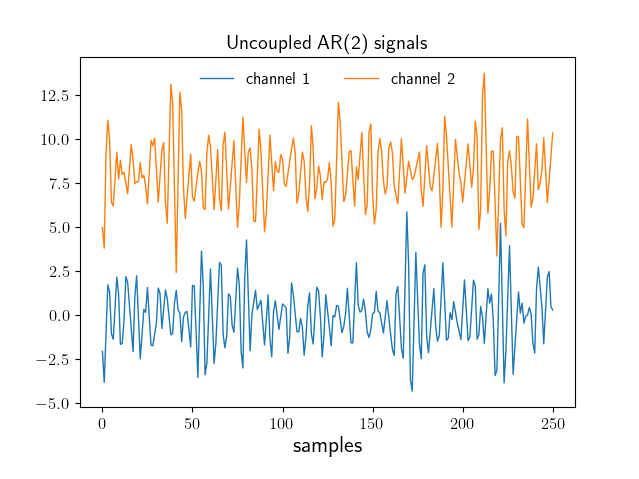
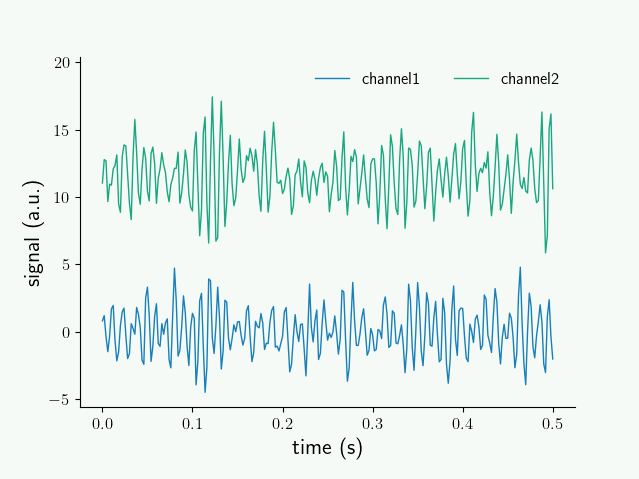
WIP: Connectivity Quickstart
Changes to be committed:
	new file:   doc/source/quickstart/ar2_coh.png
	deleted:    doc/source/quickstart/ar2_coh1.png
	modified:   doc/source/quickstart/ar2_nw.py
	modified:   doc/source/quickstart/ar2_signals.png
	modified:   doc/source/quickstart/ar2_specs.png
	modified:   doc/source/quickstart/quickstart.rst
	new file:   doc/source/tutorials/connectivity.rst

diff --git a/doc/source/quickstart/ar2_nw.py b/doc/source/quickstart/ar2_nw.py
@@ -5,13 +5,15 @@ from syncopy.tests import synth_data
 nTrials = 50
 nSamples = 1500
 trls = []
-# empty adjacency matrix - no coupling
+# 3x3 Adjacency matrix to define coupling
 AdjMat = np.zeros((2, 2))
+# coupling 0 -> 1
+AdjMat[0, 1] = 0.2
 
 for _ in range(nTrials):
 
     trl = synth_data.AR2_network(AdjMat, nSamples=nSamples)
     trls.append(trl)
 
-data_uc = spy.AnalogData(trls, samplerate=500)
-spec_uc = spy.freqanalysis(data_uc, tapsmofrq=3, keeptrials=False)
+data = spy.AnalogData(trls, samplerate=500)
+spec = spy.freqanalysis(data, tapsmofrq=3, keeptrials=False)

diff --git a/doc/source/quickstart/quickstart.rst b/doc/source/quickstart/quickstart.rst
@@ -146,73 +146,48 @@ Having time-frequency results for individual channels is useful, however we hard
 Setup
 -----
 
-To have a synthetic albeit meaningful dataset to illustrate the different methodologies we start by simulating two (for now) uncoupled autoregressive processes of order 2:
+To have a synthetic albeit meaningful dataset to illustrate the different methodologies we start by simulating two coupled autoregressive processes of order 2:
 
 .. literalinclude:: /quickstart/ar2_nw.py
 
-We also right away calculated the respective power spectra ``spec_uc``.
-We can quickly have a look at the generated signals, to do this we will use Syncopy's :func:`~syncopy.show` function. This allows us to make manual selections on Syncopy datasets, here we will use it to select 0.5 seconds of one trial for each channel separately::
+We also right away calculated the respective power spectra ``spec``.
+We can quickly have a look at a snippet of the generated signals::
+  
+  data.singlepanelplot(trials=0, toilim=[0, 0.5])
 
-  chan1 = data_uc.show(channel=0, trials=0, toilim=[0,0.5])
-  chan2 = data_uc.show(channel=1, trials=0, toilim=[0,0.5])
-
-Note that ``.show()`` returns NumPy arrays! With these we can now manually plot the signals using `matplotlib <https://matplotlib.org>`_::
-
-  import matplotlib.pyplot as ppl
-  fig, ax = ppl.subplots()
-  ax.plot(chan1, label='channel 1')
-  ax.plot(chan2 + 8, label='channel 2')
-  ax.set_xlabel('samples')
-  ax.set_title('Uncoupled AR(2) signals')
-  ax.legend(ncol=2)
-
-We shifted the 2nd channel up by 8 units on the y-axis for better visibility. Both channels show visible oscillations:
 
 .. image:: ar2_signals.png
    :height: 340px
 
+Both channels show visible oscillations as is confirmed by looking at the power spectra::
 
-as is confirmed by looking at the power spectra::
-
-  spec_uc.singlepanelplot()
+  spec.singlepanelplot()
 
 .. image:: ar2_specs.png
    :height: 300px
 
 As expected for the stochastic AR(2) model, we have a fairly broad spectral peak at around 100Hz.
 
-.. note::
+..
+   comment
    Careful when using :func:`~syncopy.show` on large datasets, as the output is loaded directly into memory. It is advisable to make sufficiently small selections (e.g. 1 channel, 1 trial) to avoid out-of-memory problems on your machine!
 
 Coherence
 ---------
-One way to check for relationships between different oscillating channels is to calculate the pairwise `coherence <https://en.wikipedia.org/wiki/Coherence_(signal_processing)>`_ measure. It can be roughly understood as a frequency dependent correlation. Let's do this for our uncoupled AR(2) signals::
+One way to check for relationships between different oscillating channels is to calculate the pairwise `coherence <https://en.wikipedia.org/wiki/Coherence_(signal_processing)>`_ measure. It can be roughly understood as a frequency dependent correlation. Let's do this for our coupled AR(2) signals::
   
-  coherence = spy.connectivityanalysis(data_uc, method='coh', tapsmofrq=3)
+  coherence = spy.connectivityanalysis(data, method='coh', tapsmofrq=3)
 
 The result is of type :class:`spy.CrossSpectralData`, the standard datatype for all connectivity measures. It contains the results for all ``nChannels x nChannels`` possible combinations. Let's pick the two available channel combinations and plot the results::
 
-  coh12 = coherence.show(channel_i='channel1', channel_j='channel2')
-  coh21 = coherence.show(channel_i='channel2', channel_j='channel1')
-
-  # plotting
-  fig, ax = ppl.subplots()
-  ax.plot(coherence.freq, coh12, label='1-2')
-  ax.plot(coherence.freq, coh21, label='2-1')
-  ax.set_xlabel('frequency (Hz)')
-  ax.set_ylabel('coherence')
-  ax.set_ylim((0,1.2))
-  ax.legend(ncol=2)
-
-.. image:: ar2_coh1.png
+  coherence.singlepanelplot(channel_i='channel1', channel_j='channel2')
+  coherence.singlepanelplot(channel_i='channel2', channel_j='channel1')
+  
+.. image:: ar2_coh.png
    :height: 300px
 
-This shows us the following properties of the coherence:
+As coherence is a *symmetric measure*, we have the same graph for both channel combinations, showing high coherence around 100Hz.
 
-* **symmetry**: the coherence of channel pair 1-2 is the same as 2-1
-* **range**: like correlations, coherence measure lives on the [0,1] interval
-* **sensitivity**: even though both channels have a lot of power around 100Hz, coherence is as low as for all other frequencies as there is no coupling
-  
-.. hint::
-   To inspect the available dimensions of any Syncopy dataset, access the ``.dimord`` property.
-
+Granger Causality
+-----------------
+   

diff --git a/doc/source/tutorials/connectivity.rst b/doc/source/tutorials/connectivity.rst
@@ -1,0 +1,8 @@
+This shows us the following properties of the coherence:
+
+* **symmetry**: the coherence of channel pair 1-2 is the same as 2-1
+* **range**: like correlations, the coherence measure lives on the [0,1] interval
+* **sensitivity**: even though both channels have a lot of power around 100Hz, coherence is as low as for all other frequencies as there is no coupling
+  
+.. hint::
+   To inspect the available dimensions of any Syncopy dataset, access the ``.dimord`` property.
